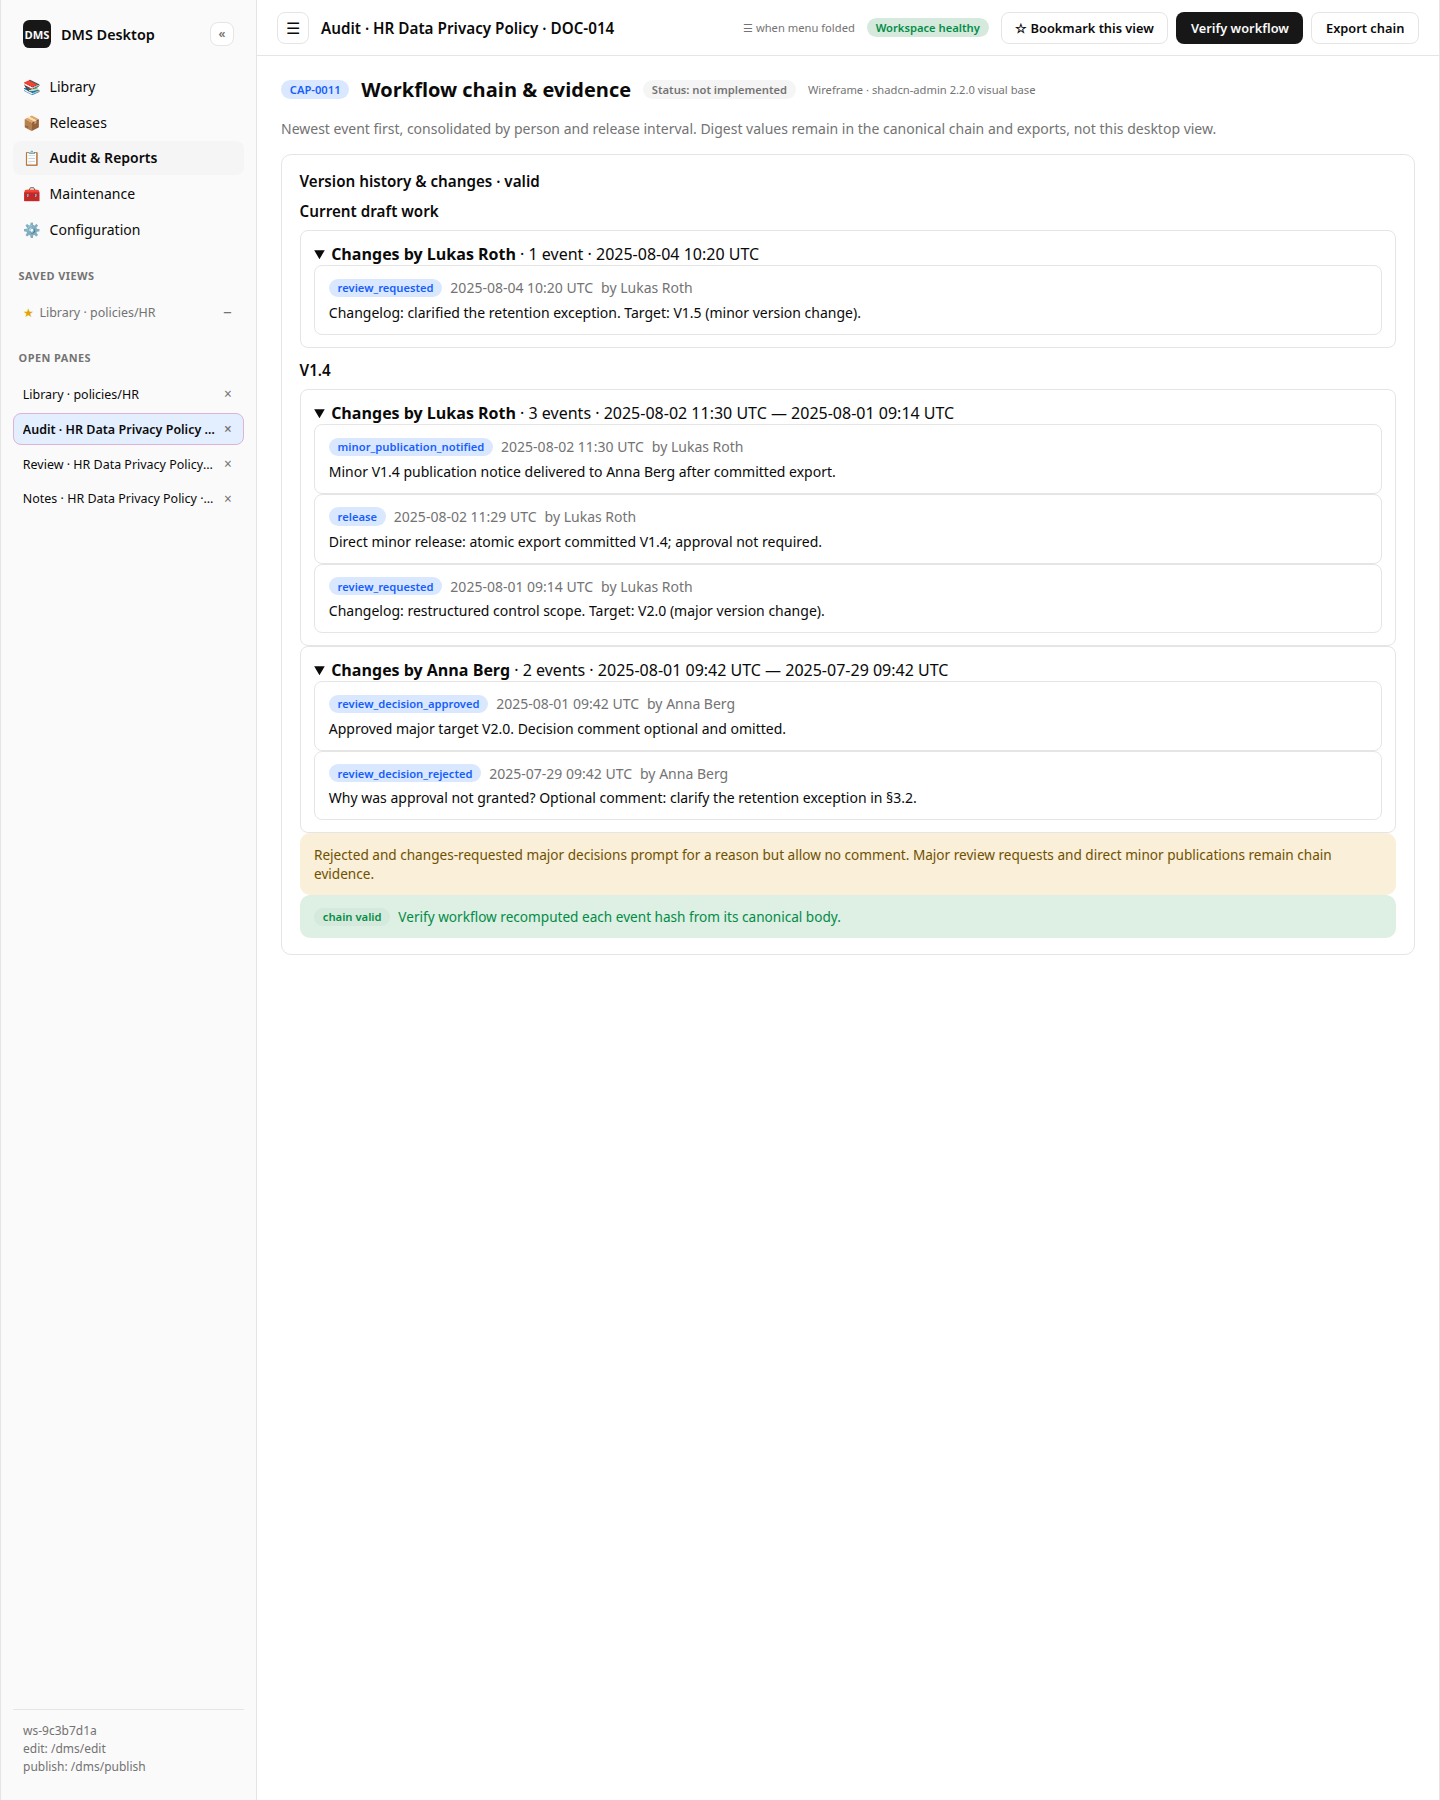
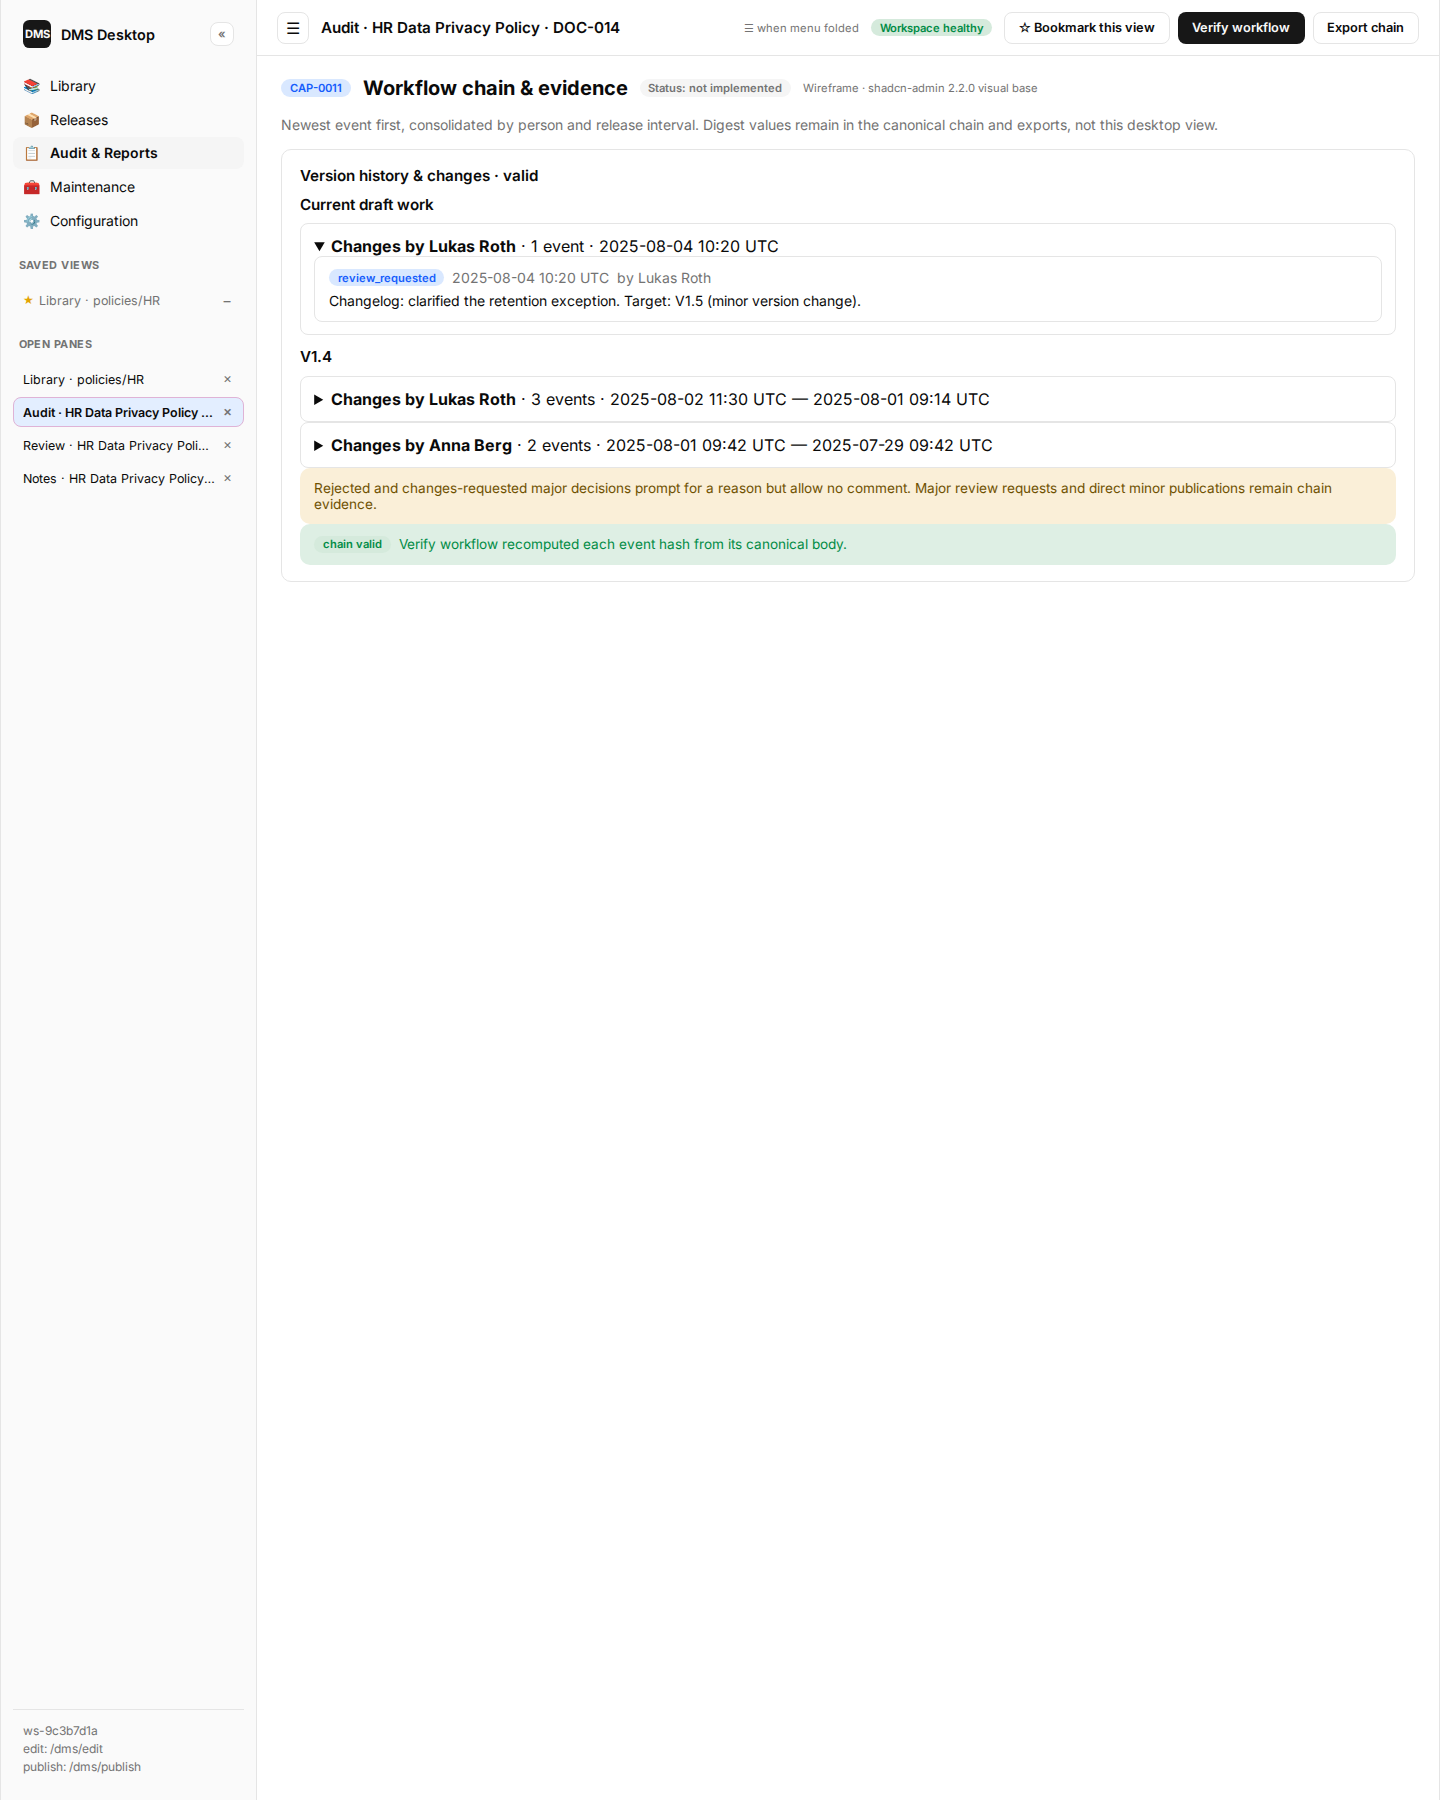
feat(desktop): collapse older history entries

diff --git a/docs/product/wireframes/html/CAP-0011-approval-evidence.html b/docs/product/wireframes/html/CAP-0011-approval-evidence.html
@@ -291,7 +291,7 @@ tr:last-child td { border-bottom: 0; }
   </article></details>
           </section>
           <section><h4 class="card-title">V1.4</h4>
-            <details class="event" open><summary><strong>Changes by Lukas Roth</strong> · 3 events · 2025-08-02 11:30 UTC — 2025-08-01 09:14 UTC</summary><article class="event">
+            <details class="event"><summary><strong>Changes by Lukas Roth</strong> · 3 events · 2025-08-02 11:30 UTC — 2025-08-01 09:14 UTC</summary><article class="event">
     <div class="row gap-2"><span class="badge info">minor_publication_notified</span><span class="muted">2025-08-02 11:30 UTC</span><span class="muted">by Lukas Roth</span></div>
     <p>Minor V1.4 publication notice delivered to Anna Berg after committed export.</p>
   </article><article class="event">
@@ -301,7 +301,7 @@ tr:last-child td { border-bottom: 0; }
     <div class="row gap-2"><span class="badge info">review_requested</span><span class="muted">2025-08-01 09:14 UTC</span><span class="muted">by Lukas Roth</span></div>
     <p>Changelog: restructured control scope. Target: V2.0 (major version change).</p>
   </article></details>
-            <details class="event" open><summary><strong>Changes by Anna Berg</strong> · 2 events · 2025-08-01 09:42 UTC — 2025-07-29 09:42 UTC</summary><article class="event">
+            <details class="event"><summary><strong>Changes by Anna Berg</strong> · 2 events · 2025-08-01 09:42 UTC — 2025-07-29 09:42 UTC</summary><article class="event">
     <div class="row gap-2"><span class="badge info">review_decision_approved</span><span class="muted">2025-08-01 09:42 UTC</span><span class="muted">by Anna Berg</span></div>
     <p>Approved major target V2.0. Decision comment optional and omitted.</p>
   </article><article class="event">

diff --git a/docs/product/wireframes/html/CAP-0006-library-explorer.html b/docs/product/wireframes/html/CAP-0006-library-explorer.html
@@ -506,7 +506,7 @@ tr:last-child td { border-bottom: 0; }
     <div class="row gap-2"><span class="badge info">review requested</span><span class="muted">2025-08-04 10:20 UTC</span><span class="muted">by Lukas Roth</span></div>
     <p>Changelog: clarified the retention exception. Target: V1.5 (minor version change).</p>
   </article></details></section>
-        <section><h4 class="card-title" style="margin-bottom:0.35rem">V1.3</h4><details class="event" open><summary><strong>Changes by Lukas Roth</strong> · 2 events · 2025-08-01 09:44 UTC — 09:14 UTC</summary><article class="event">
+        <section><h4 class="card-title" style="margin-bottom:0.35rem">V1.3</h4><details class="event"><summary><strong>Changes by Lukas Roth</strong> · 2 events · 2025-08-01 09:44 UTC — 09:14 UTC</summary><article class="event">
     <div class="row gap-2"><span class="badge info">release</span><span class="muted">2025-08-01 09:44 UTC</span><span class="muted">by Lukas Roth</span></div>
     <p>Atomic export committed V1.3.</p>
   </article><article class="event">

diff --git a/docs/product/wireframes/html/CAP-0015-document-control-data.html b/docs/product/wireframes/html/CAP-0015-document-control-data.html
@@ -413,7 +413,7 @@ tr:last-child td { border-bottom: 0; }
     <div class="row gap-2"><span class="badge info">review requested</span><span class="muted">2025-08-04 10:20 UTC</span><span class="muted">by Lukas Roth</span></div>
     <p>Changelog: clarified the retention exception. Target: V1.5 (minor version change).</p>
   </article></details></section>
-        <section><h4 class="card-title" style="margin-bottom:0.35rem">V1.3</h4><details class="event" open><summary><strong>Changes by Lukas Roth</strong> · 2 events · 2025-08-01 09:44 UTC — 09:14 UTC</summary><article class="event">
+        <section><h4 class="card-title" style="margin-bottom:0.35rem">V1.3</h4><details class="event"><summary><strong>Changes by Lukas Roth</strong> · 2 events · 2025-08-01 09:44 UTC — 09:14 UTC</summary><article class="event">
     <div class="row gap-2"><span class="badge info">release</span><span class="muted">2025-08-01 09:44 UTC</span><span class="muted">by Lukas Roth</span></div>
     <p>Atomic export committed V1.3.</p>
   </article><article class="event">

diff --git a/docs/changes/archive/CHG-0029-newest-history-entry-default.md b/docs/changes/archive/CHG-0029-newest-history-entry-default.md
@@ -1,0 +1,116 @@
+# CHG-0029 — Newest version-history entry expanded by default
+
+Render only the newest person-consolidated entry in **Version history & changes**
+expanded by default; keep all older actor entries folded while retaining their
+nested events unchanged.
+
+**Plan ID:** CHG-0029-newest-history-entry-default
+**Execution slot:** P0500
+**Created:** 2026-08-21
+**Depends on:** none
+**Entry checkpoint:** Direct operator request specifies the required initial state.
+**Context sources:** `docs/changes/AGENTS.md` (Local Contracts); `docs/product/capabilities/CAP-0011-approval-evidence.md` (Outcome 4); `crates/dms-desktop/ui/library.mjs` (`workflowEvidenceMarkup`, `workflowEventActor`); `crates/dms-desktop/ui/library.test.mjs` (person-group fixture and markup assertions); `docs/product/wireframes/generate.mjs` (CAP-0011 screen and shared selection pane); `crates/dms-desktop/AGENTS.md` (selection-pane contract).
+**Produces:** An initial expansion rule that exposes only the most recent actor block, with current CAP-0011 and static wireframes documenting it.
+**Status:** done — all verification gates passed; this record is ready for archive.
+**Filename convention:** The repository's active-record contract requires `CHG-*.md`; `P0500` is this CHG's execution-order authority and does not change that filename convention.
+
+| Field | Value |
+| --- | --- |
+| ID | CHG-0029 |
+| Status | done |
+| External request | Direct operator request: "unfold only the newest entry in \"Version history & changes · valid\"; fold all older entries by default" |
+| Affected CAPs | CAP-0011 |
+| Decision records | None — initial disclosure state is capability-local presentation |
+
+## Current state
+
+- `workflowEvidenceMarkup` receives history newest-first, renders intervals
+  newest-first, and renders actor groups in first-seen order within each
+  interval: `crates/dms-desktop/ui/library.mjs:954-989`.
+- Every `workflow-actor-block` currently receives the `open` attribute,
+  expanding the entire history whenever its parent topic is opened.
+- The current UI fixture renders five actor blocks:
+  `crates/dms-desktop/ui/library.test.mjs:598-606`.
+- The Version history topic itself stays folded in a fresh Library activity under
+  CHG-0028. This change governs its nested actor blocks only after an operator
+  opens that topic.
+
+## Risk call-out
+
+The newest entry is defined by the existing rendered order: the first actor
+block in the first (newest) interval. Do not re-sort timestamps, merge actor
+identities, or change release interval boundaries while changing the `open`
+attribute. The fallback for malformed timestamps remains the existing render
+order. Recovery is a frontend-only `git restore`; `.dms` event data is never
+modified.
+
+## Phases
+
+| # | Phase | Status | Verification gate |
+| --- | --- | --- | --- |
+| 1 | Render only the newest actor block open | done (`node --test crates/dms-desktop/ui/library.test.mjs`, 31 passed) | `node --test crates/dms-desktop/ui/library.test.mjs` exits 0 with one open actor-block assertion against the multi-actor fixture |
+| 2 | Synchronize CAP-0011 and wireframes | done (`node docs/product/wireframes/generate.mjs`; Chrome exported CAP-0011 PNG; 21 HTML + 21 PNG pairs) | CAP-0011 states the nested disclosure default; `node docs/product/wireframes/generate.mjs` exits 0; CAP-0011 HTML/PNG are current |
+| 3 | Run workspace gates and close the record | done (`cargo fmt --check`; `cargo clippy --workspace --all-targets -- -D warnings`; `cargo test --workspace`; `node --test crates/dms-desktop/ui/*.test.mjs`, 106 passed) | `cargo fmt --check`, `cargo clippy --workspace --all-targets -- -D warnings`, `cargo test --workspace`, and `node --test crates/dms-desktop/ui/*.test.mjs` all exit 0; CHG is archived and indexes are accurate |
+
+Mark a phase `in-progress` while running it, `done (<evidence>)` once its gate
+passes, and `pending` otherwise.
+
+## Phase 1 — Render only the newest actor block open
+
+**Goal:** Expanding Version history & changes reveals the latest actor entry
+without expanding older entries.
+
+Steps:
+
+1. In `workflowEvidenceMarkup`, carry a single expansion flag across all
+   intervals and actor groups. Apply `open` only to the first rendered actor
+   block; omit it for every later block.
+2. Extend the existing multi-actor frontend fixture to assert exactly one
+   `workflow-actor-block` has `open`, that it is the first block under Current
+   draft work, and that the remaining blocks have no `open` attribute.
+3. Preserve no-digest presentation, actor labels, event counts, ordering, and
+   empty-state rendering.
+
+Verification gate: `node --test crates/dms-desktop/ui/library.test.mjs` exits 0
+with the expansion rule asserted against the existing multi-actor fixture.
+
+## Phase 2 — Synchronize CAP-0011 and wireframes
+
+**Goal:** The evidence contract and static visual reference state the new nested
+expansion default.
+
+Steps:
+
+1. Amend CAP-0011 Outcome 4: only the newest actor block is initially expanded;
+   older actor blocks start folded when Version history & changes is opened.
+2. Amend `crates/dms-desktop/AGENTS.md` only if its selection-pane contract needs
+   this nested disclosure rule.
+3. Update the CAP-0011 screen in `docs/product/wireframes/generate.mjs` so its
+   newest actor block is open and the two older actor blocks are folded.
+4. Regenerate the product wireframes and export CAP-0011 PNG. Do not add a CHG
+   review artifact to the product manifest.
+
+Verification gate: CAP-0011 and desktop DOX match the rule; generator exits 0;
+CAP-0011 HTML/PNG show exactly one open actor block.
+
+## Phase 3 — Run workspace gates and close the record
+
+**Goal:** Deliver the small presentation change with proof and a complete record.
+
+Steps:
+
+1. Run `cargo fmt --check`.
+2. Run `cargo clippy --workspace --all-targets -- -D warnings`.
+3. Run `cargo test --workspace`.
+4. Run `node --test crates/dms-desktop/ui/*.test.mjs`.
+5. Complete the DOX pass; record evidence, archive this CHG, update
+   `docs/changes/README.md`, and commit the vertical slice.
+
+Verification gate: All listed commands exit 0; the CHG is archived and indexed.
+
+## Out of scope
+
+- Changing the folded state of the parent Version history & changes topic.
+- Persisting nested actor-block disclosure choices.
+- Changing event ordering, release intervals, actor resolution, event content,
+  digest visibility, or audit exports.

diff --git a/crates/dms-desktop/AGENTS.md b/crates/dms-desktop/AGENTS.md
@@ -128,8 +128,9 @@ macOS.
   effective target version, labels later Next minor options **approval
   optional**, keeps Manual major/minor disabled until Manual target is
   selected. **Version history & changes** owns the per-person, release-interval
-  workflow evidence and its verification verdict; it is separate from Revision
-  cycle. There is no **Begin revision** control: library
+  workflow evidence and its verification verdict; only its newest actor block
+  starts expanded, while older actor blocks start folded. It is separate from
+  Revision cycle. There is no **Begin revision** control: library
   load and document selection reconcile Draft/Released from the draft digest
   versus the latest release. The adapter supplies lifecycle availability and precondition explanations
   rather than duplicating core transitions in the frontend. `mailto:` delivery

diff --git a/docs/changes/README.md b/docs/changes/README.md
@@ -28,6 +28,7 @@ A CHG is not a feature specification; CAPs describe current behaviour.
 
 | ID | Title | Status | CAP impact |
 | --- | --- | --- | --- |
+| [CHG-0029](archive/CHG-0029-newest-history-entry-default.md) | Newest version-history entry expanded by default | done | CAP-0011 |
 | [CHG-0028](archive/CHG-0028-document-pane-defaults.md) | Document-pane initial disclosure state | done | CAP-0006, CAP-0011, CAP-0015 |
 | [CHG-0027](archive/CHG-0027-version-history-discoverability.md) | Discoverable version history and person-consolidated changes | done | CAP-0006, CAP-0011, CAP-0015 |
 | [CHG-0026](archive/CHG-0026-person-consolidated-workflow-evidence.md) | Person-consolidated workflow evidence without digest values | done | CAP-0011 |

diff --git a/docs/product/capabilities/CAP-0011-approval-evidence.md b/docs/product/capabilities/CAP-0011-approval-evidence.md
@@ -39,6 +39,8 @@
    its nested fine-grained events show type, timestamp, changelog or decision or
    operator comment, and requested target version/mode when present. Failed,
    rejected, cancelled, and changes-requested reviews remain in that history.
+   Only the first actor block in the newest interval is initially expanded;
+   every older actor block starts folded.
    The in-app pane displays no event hash, predecessor hash, event ID, or revision
    digest; its disclosure summary retains the Verify workflow verdict. Canonical
    event retention and full-fidelity CAP-0012 exports are unchanged.
